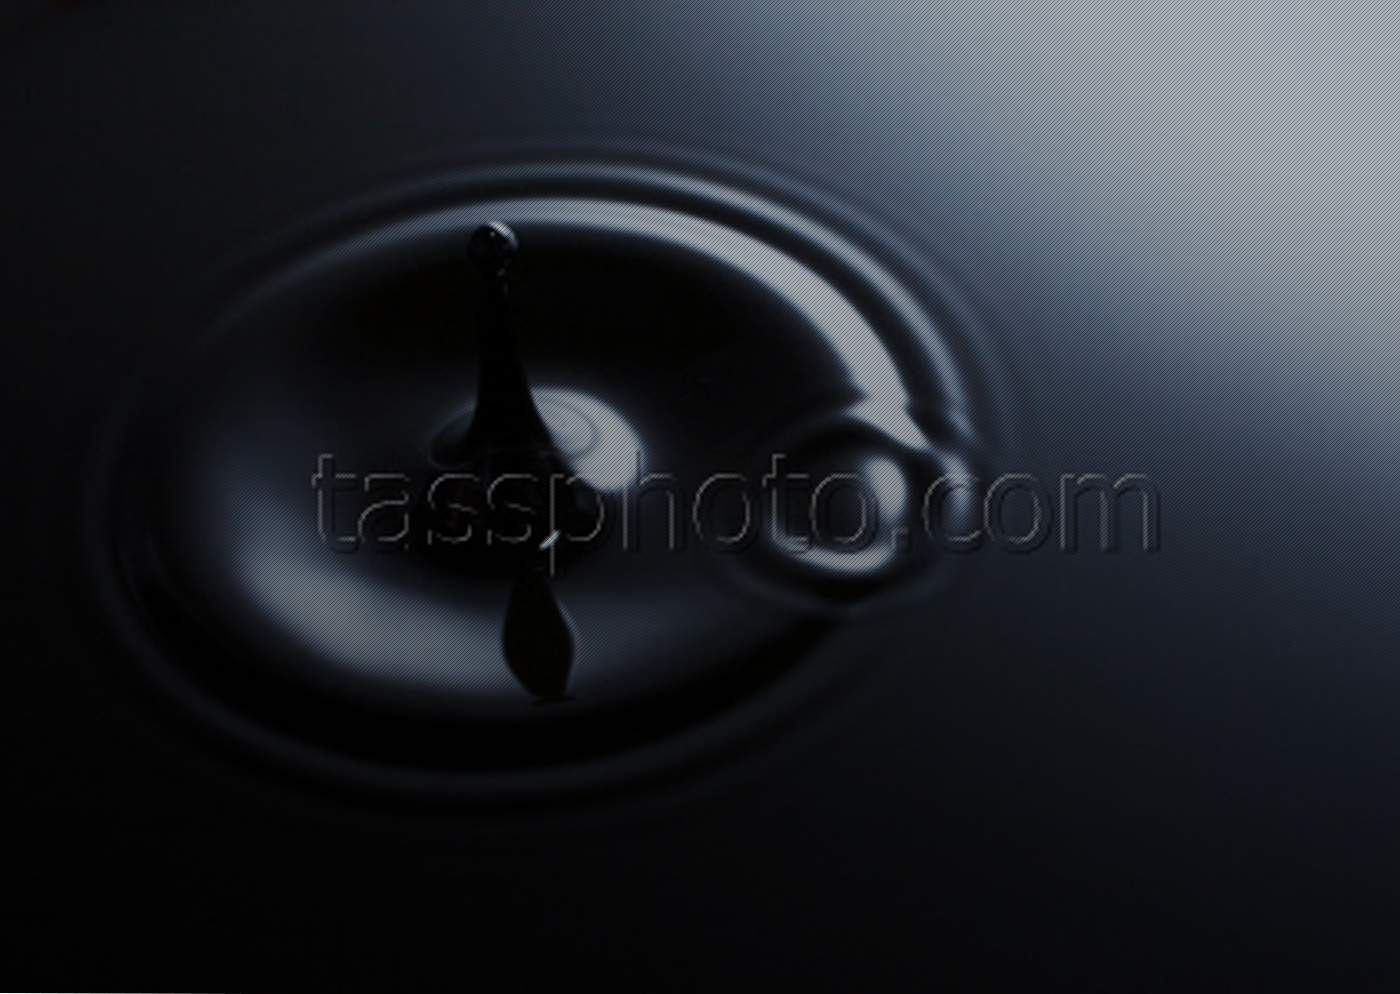
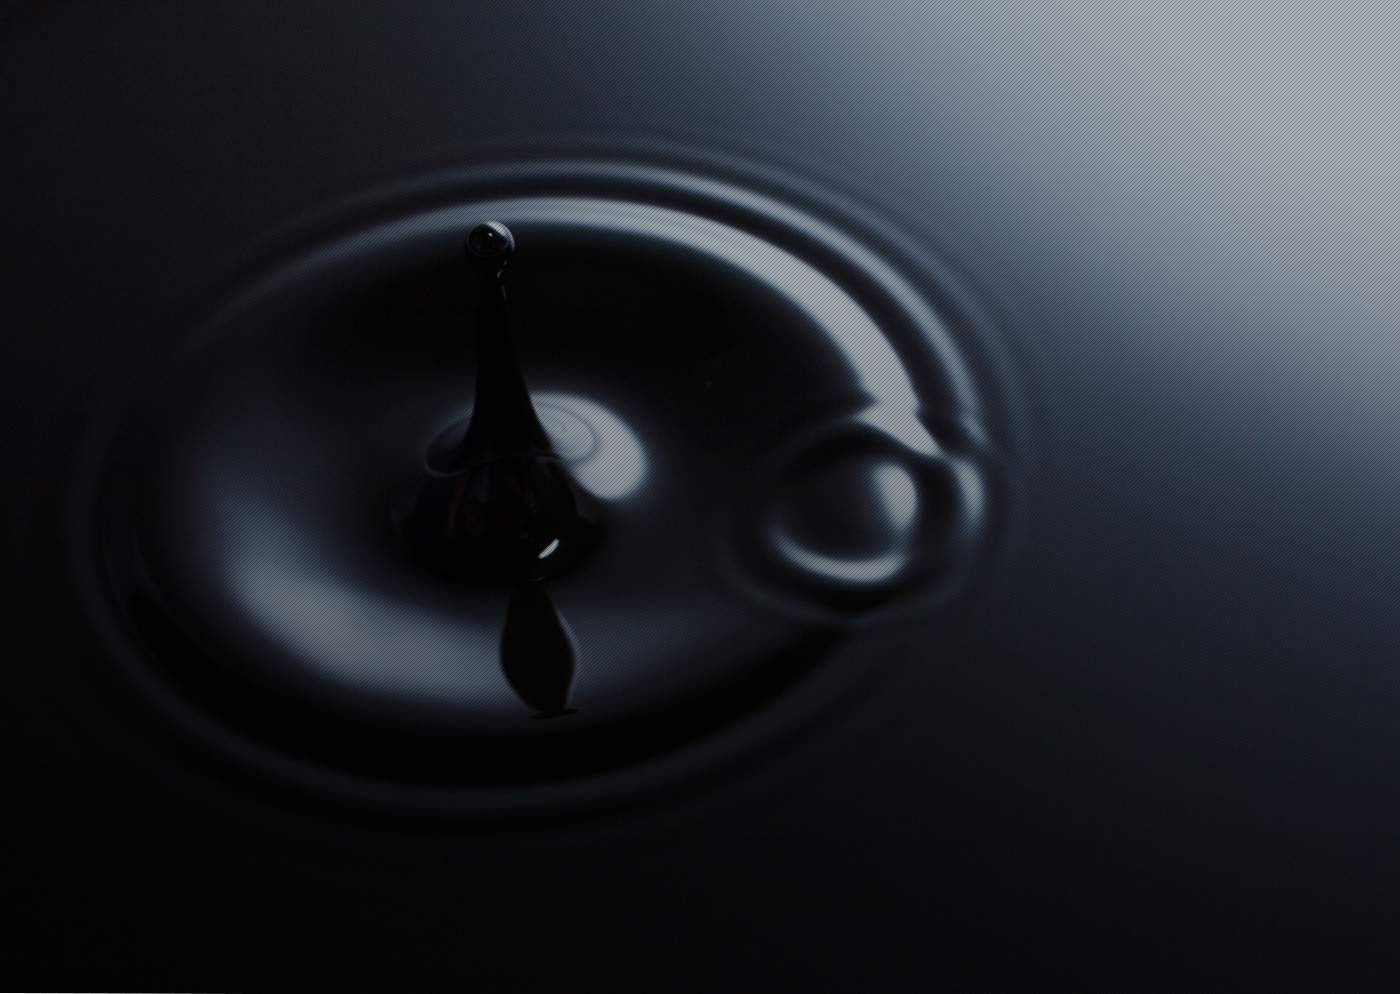
Add hires photo^ minor css fix

diff --git a/css/infographic.css b/css/infographic.css
@@ -359,11 +359,6 @@ h2.h2:after {
   .animatedblock {
     visibility: visible;
   }
-
-  /* line 271, ../scss/infographic.scss */
-  .animated {
-    visibility: hidden;
-  }
 }
 @media (max-width: 479px) {
   /* line 278, ../scss/infographic.scss */

diff --git a/scss/infographic.scss b/scss/infographic.scss
@@ -269,7 +269,7 @@ h2.h2 {
 	}
 
 	.animated {
-		visibility: hidden;
+		//visibility: hidden;
 	}
 
 }
